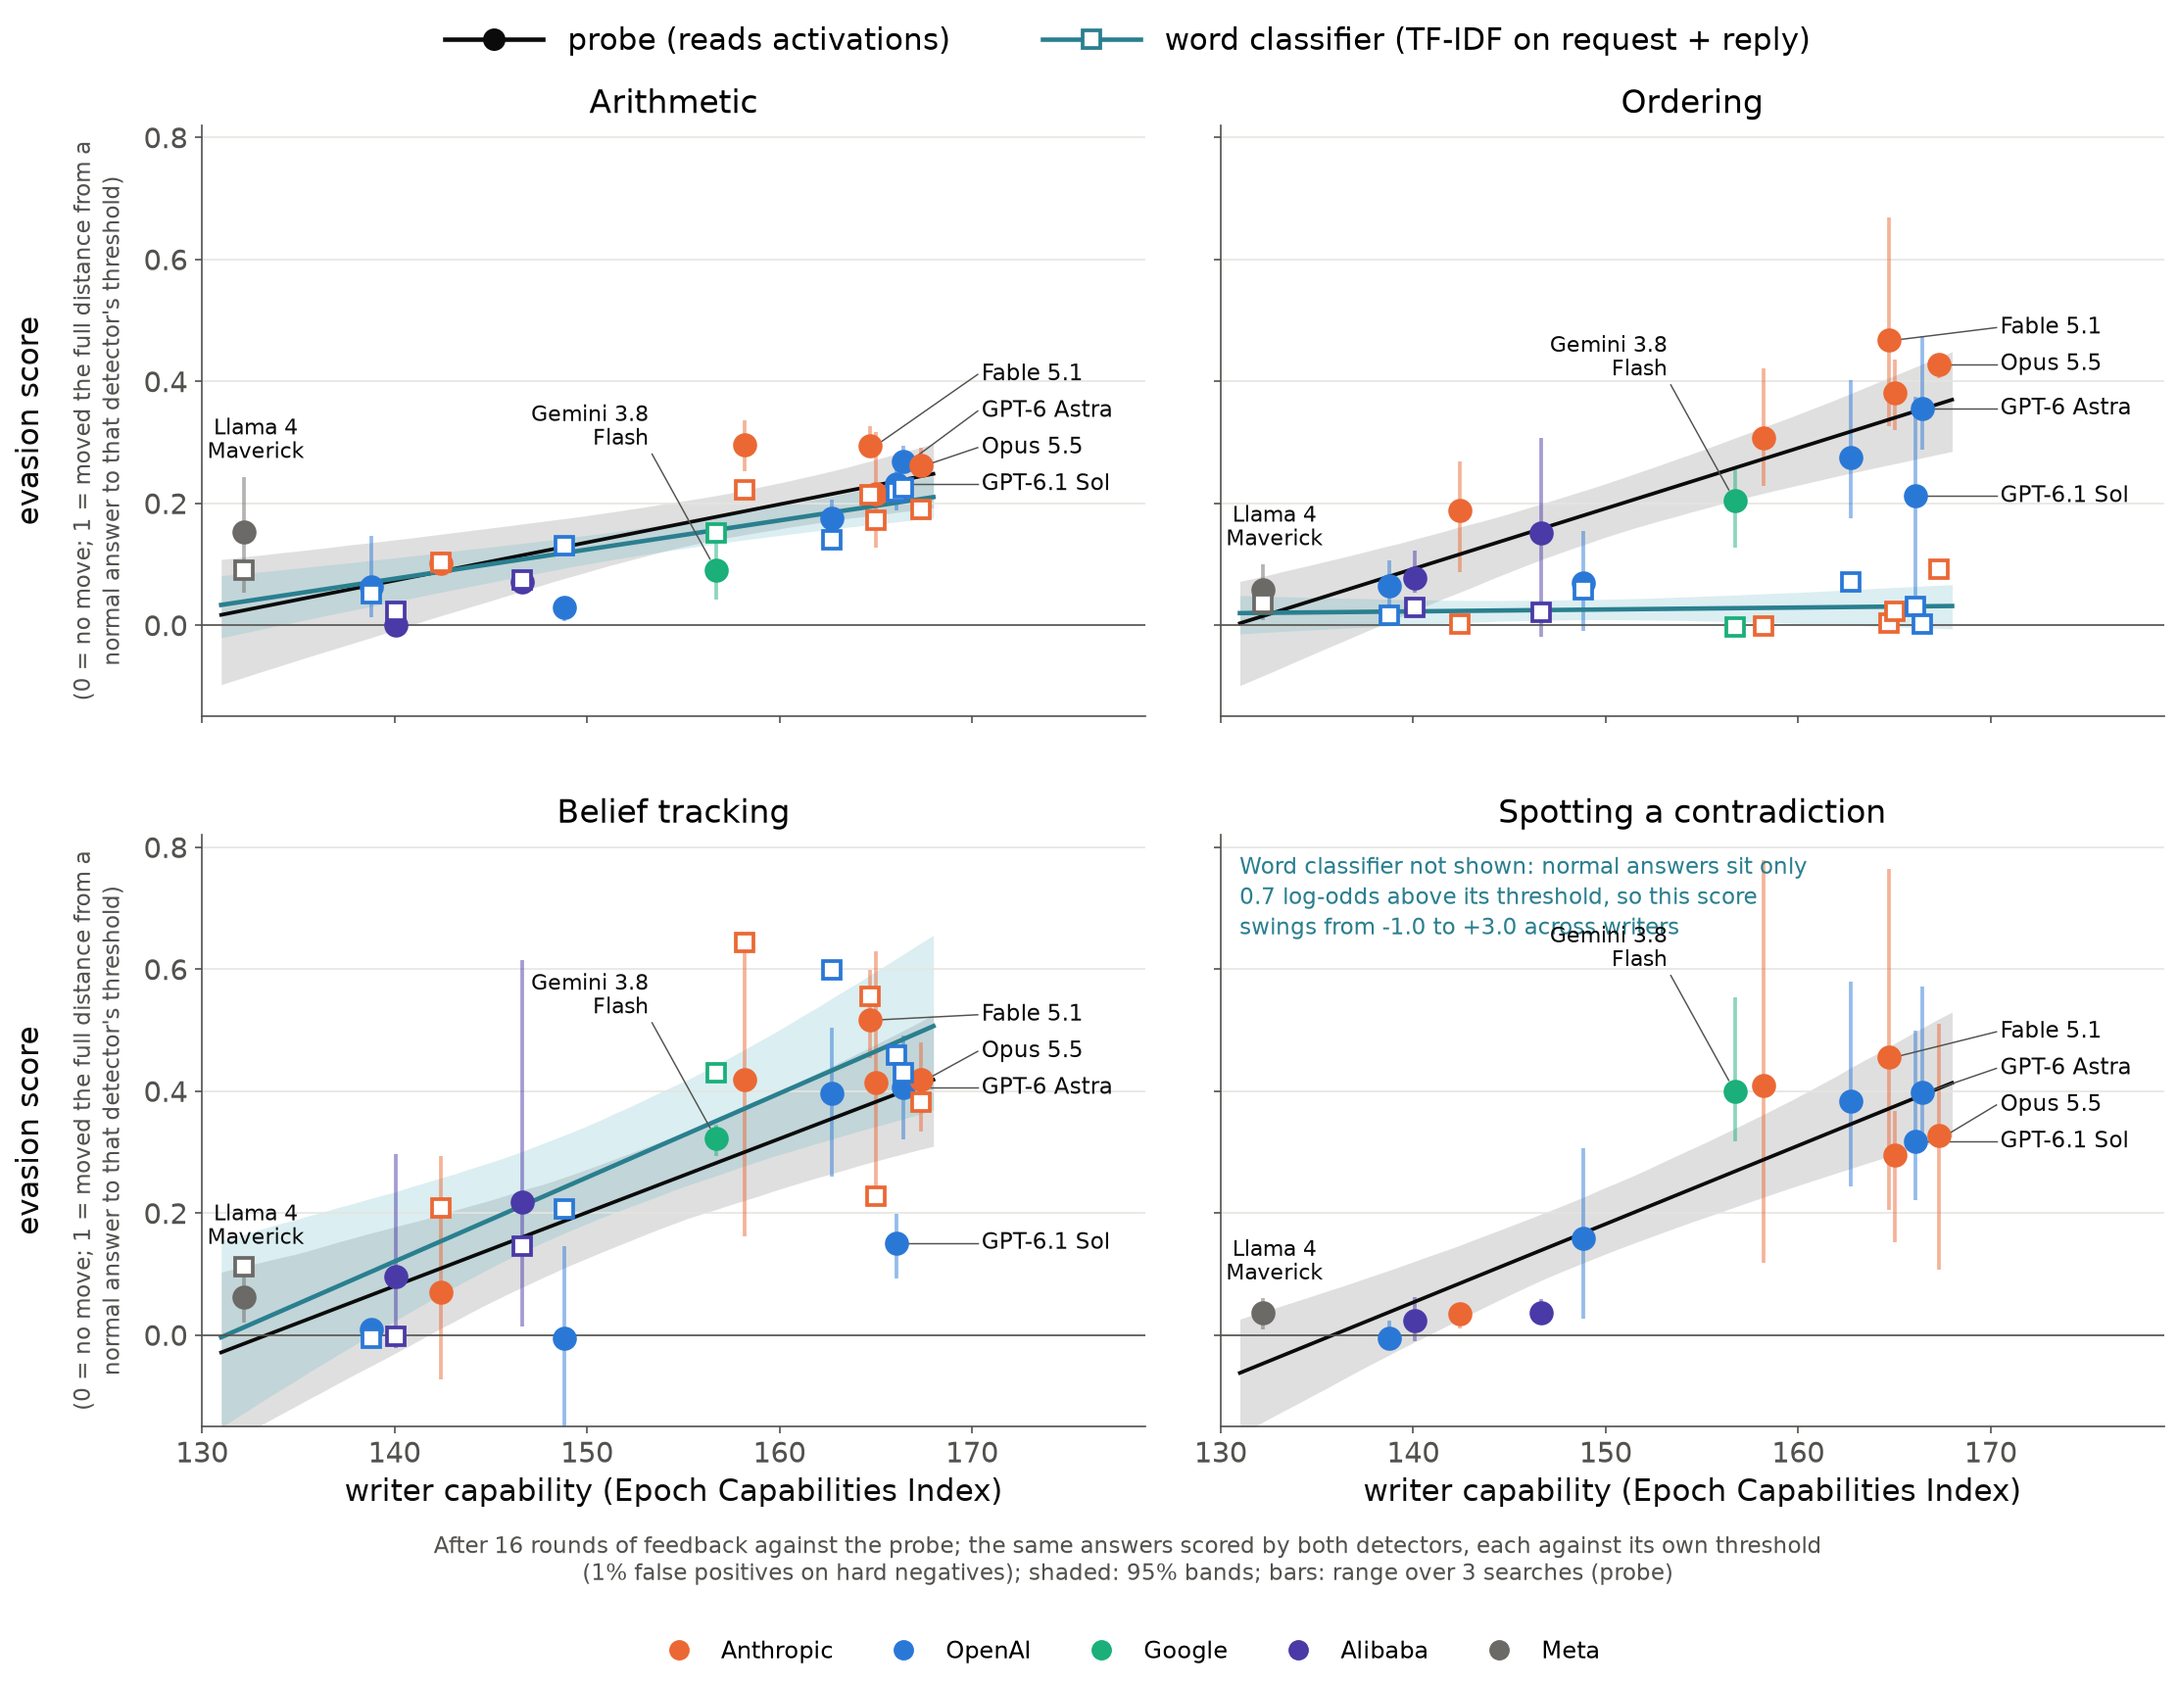
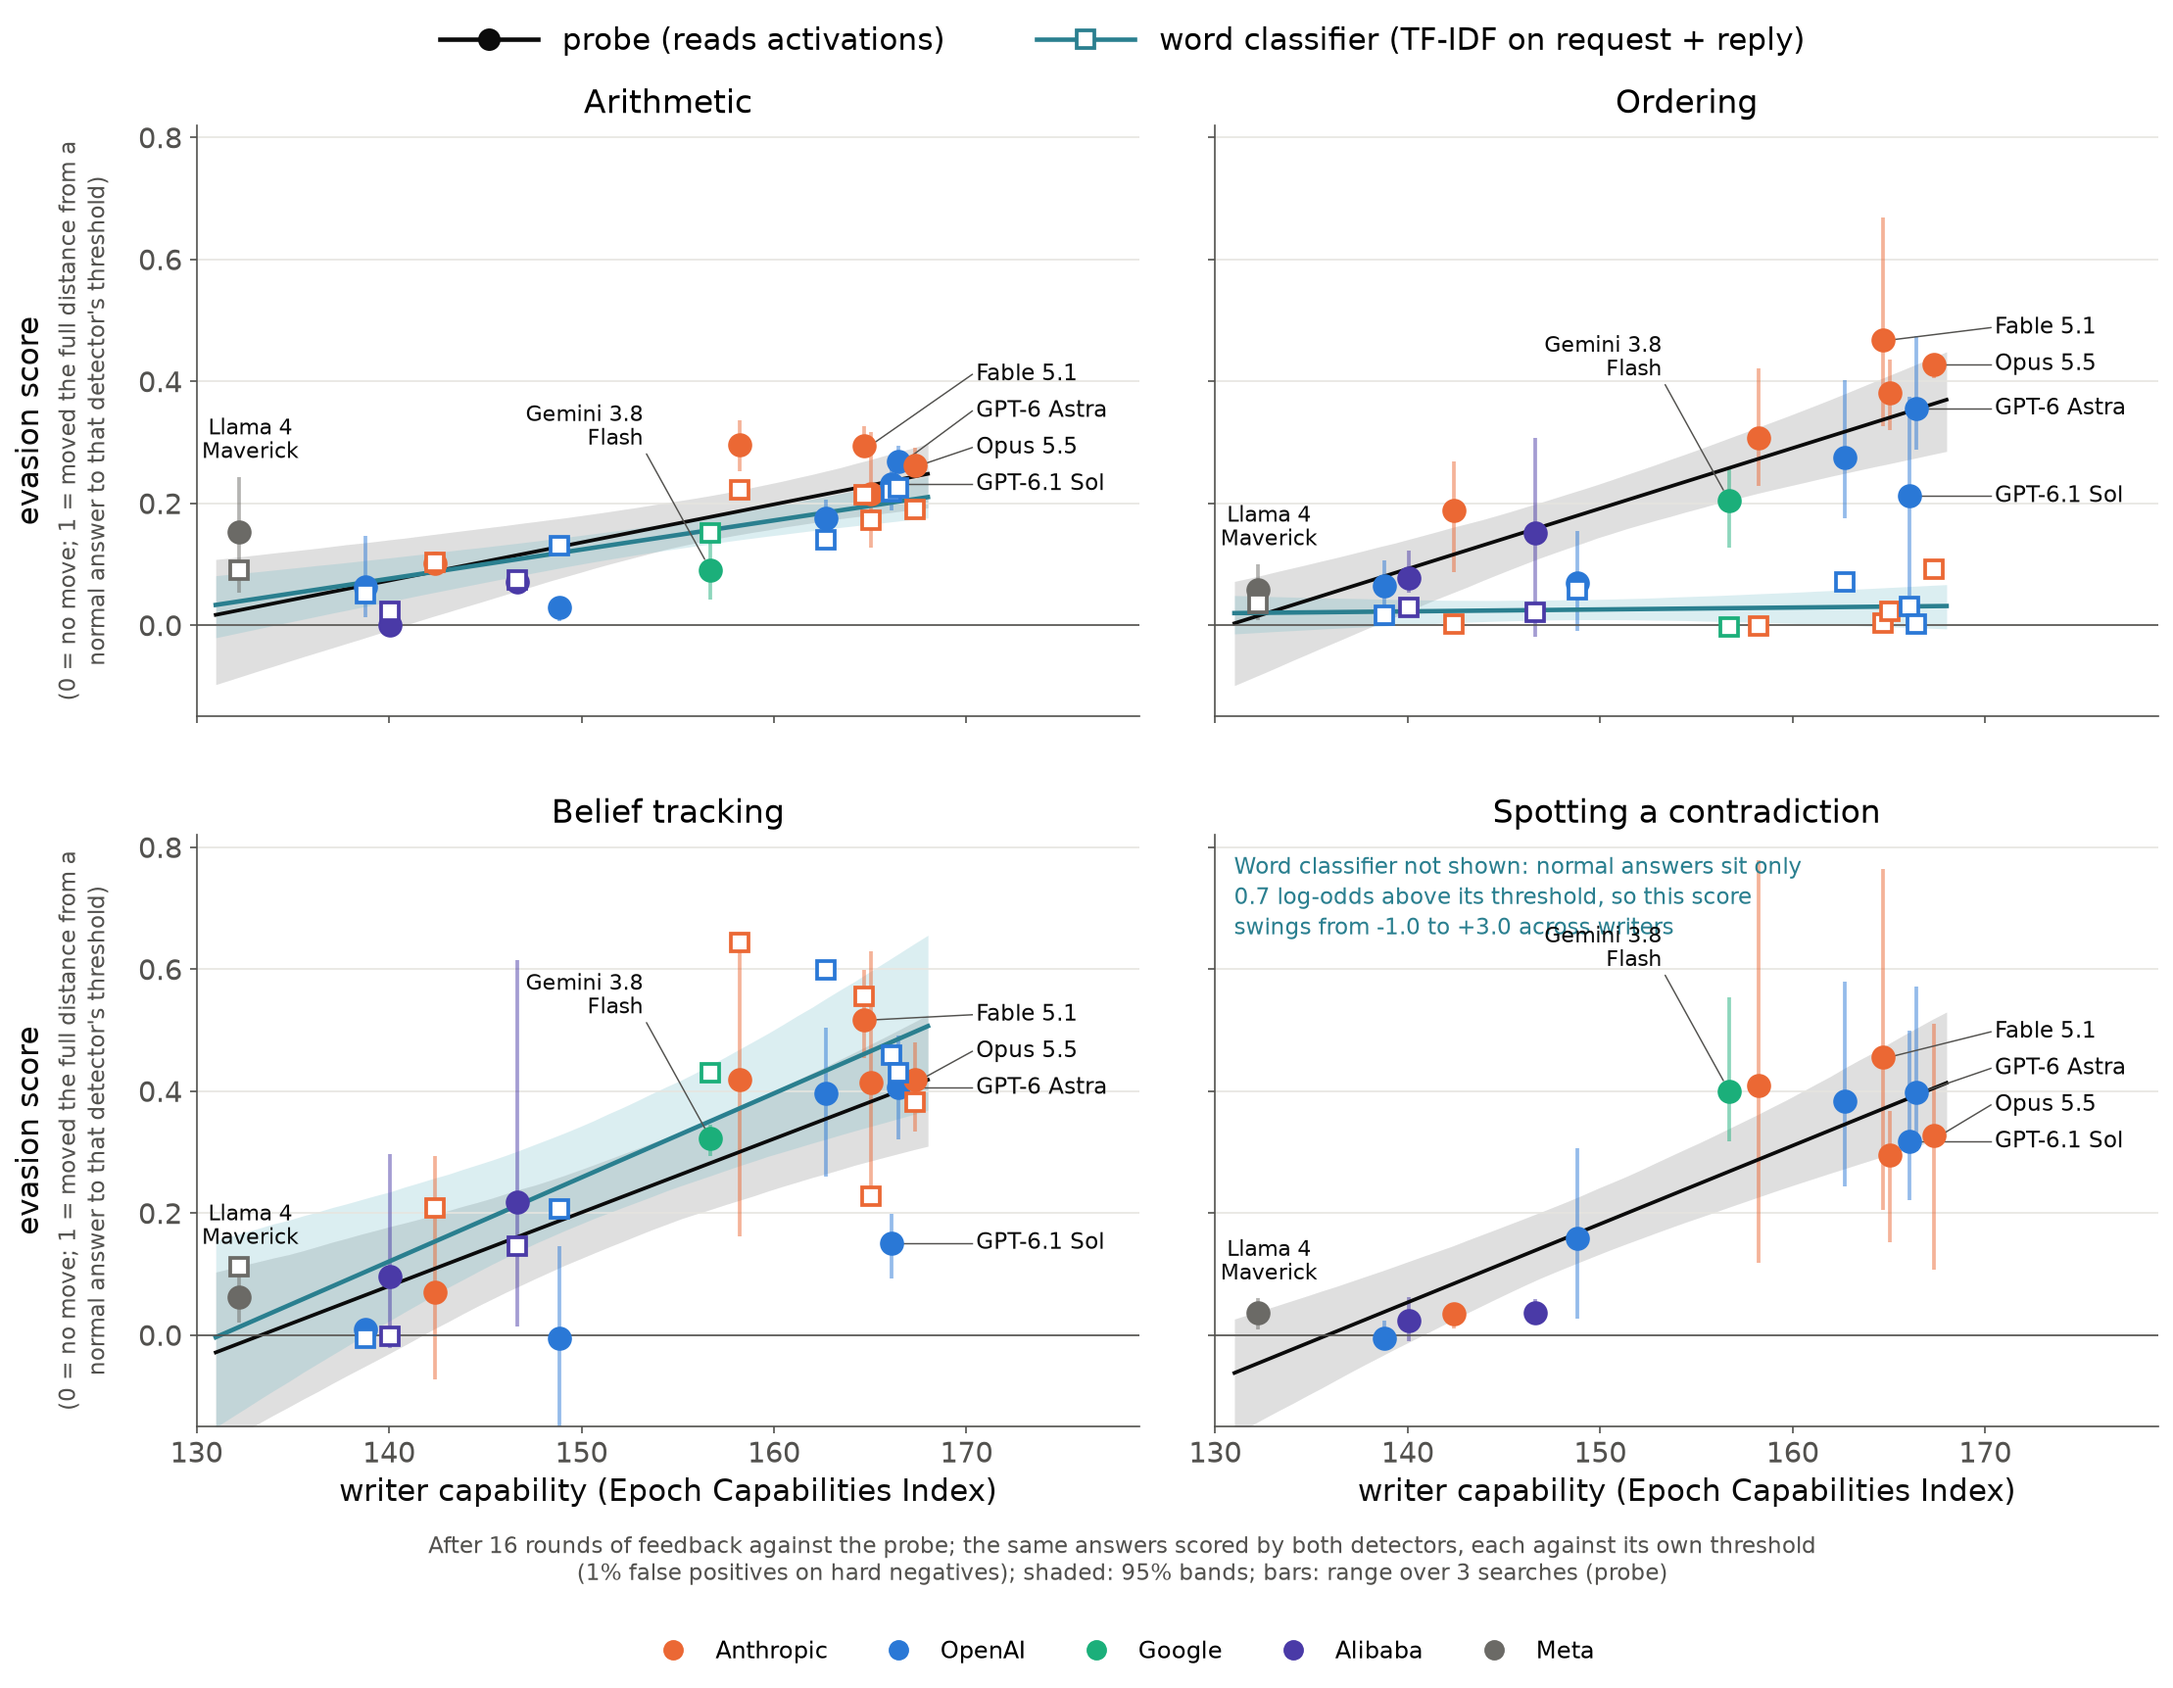
Probe vs word classifier figures: drop the threshold-position notes; y label beside its note

diff --git a/analysis/post_v9/fig_2x2.py b/analysis/post_v9/fig_2x2.py
@@ -281,8 +281,6 @@ def figure_vs_tfidf(meta: dict, name: str, separation: bool = False) -> None:
         if separation:
             sep = TFIDF_TREND[task]["separation"]
             probe, words = sep["probe"], sep["tfidf"]
-            ax.text(0.02, 0.97, f"threshold at {sep['probe']['threshold_at']:.2f} (probe), {sep['tfidf']['threshold_at']:.2f} (word classifier)",
-                    transform=ax.transAxes, va="top", ha="left", fontsize=10.5, color=F.v6.MUTED)  # top left: empty in every panel
         lo, hi = fit_band(probe["writer_chains"], meta)
         ax.fill_between(FIT_XS, lo, hi, color=F.v6.TEXT, alpha=0.13, lw=0, zorder=1)
         plot_round(ax, probe, meta, hollow=False, bars=True, fit_style="-")
@@ -304,8 +302,9 @@ def figure_vs_tfidf(meta: dict, name: str, separation: bool = False) -> None:
     for ax in axes[-1]:
         ax.set_xlabel("writer capability (Epoch Capabilities Index)")
     for ax in axes[:, 0]:
-        ax.set_ylabel("evasion score", fontsize=15, labelpad=48)
-        ax.text(-0.11, 0.5, SEPARATION_NOTE if separation else "(0 = no move; 1 = moved the full distance from a\nnormal answer to that detector's threshold)",
+        ax.set_ylabel("evasion score", fontsize=15)
+        ax.yaxis.set_label_coords(-0.16, 0.5)  # just left of the note below, which sits just left of the tick labels
+        ax.text(-0.12, 0.5, SEPARATION_NOTE if separation else "(0 = no move; 1 = moved the full distance from a\nnormal answer to that detector's threshold)",
                 transform=ax.transAxes, rotation=90, ha="center", va="center", fontsize=11, linespacing=1.3, color=F.v6.MUTED)
     detectors = [Line2D([], [], marker="o", ms=10, color=F.v6.TEXT, mfc=F.v6.TEXT, mec=F.v6.TEXT, lw=2.2, label="probe (reads activations)"),
                  Line2D([], [], marker="s", ms=9, color=TFIDF_LINE, mfc="white", mec=TFIDF_LINE, mew=1.8, lw=2.2, label=TFIDF_LABEL)]
@@ -313,7 +312,7 @@ def figure_vs_tfidf(meta: dict, name: str, separation: bool = False) -> None:
                columnspacing=3, handlelength=3.2)
     labs = [Line2D([], [], marker="o", ls="", ms=9, color=c, label=lab) for lab, c in F.LAB_COLOUR.items()]
     fig.legend(handles=labs, loc="lower center", ncol=len(labs), frameon=False, fontsize=11.5, bbox_to_anchor=(0.5, -0.04))
-    scale = ("each on its own scale (median normal answer to median hard negative);\nthresholds at 1% false positives on hard negatives"
+    scale = ("each on its own scale\n(from the median normal answer to the median hard negative)"
              if separation else "each against its own threshold\n(1% false positives on hard negatives)")
     fig.text(0.5, 0.025, f"After 16 rounds of feedback against the probe; the same answers scored by both detectors, {scale}; "
              "shaded: 95% bands; bars: range over 3 searches (probe)",
